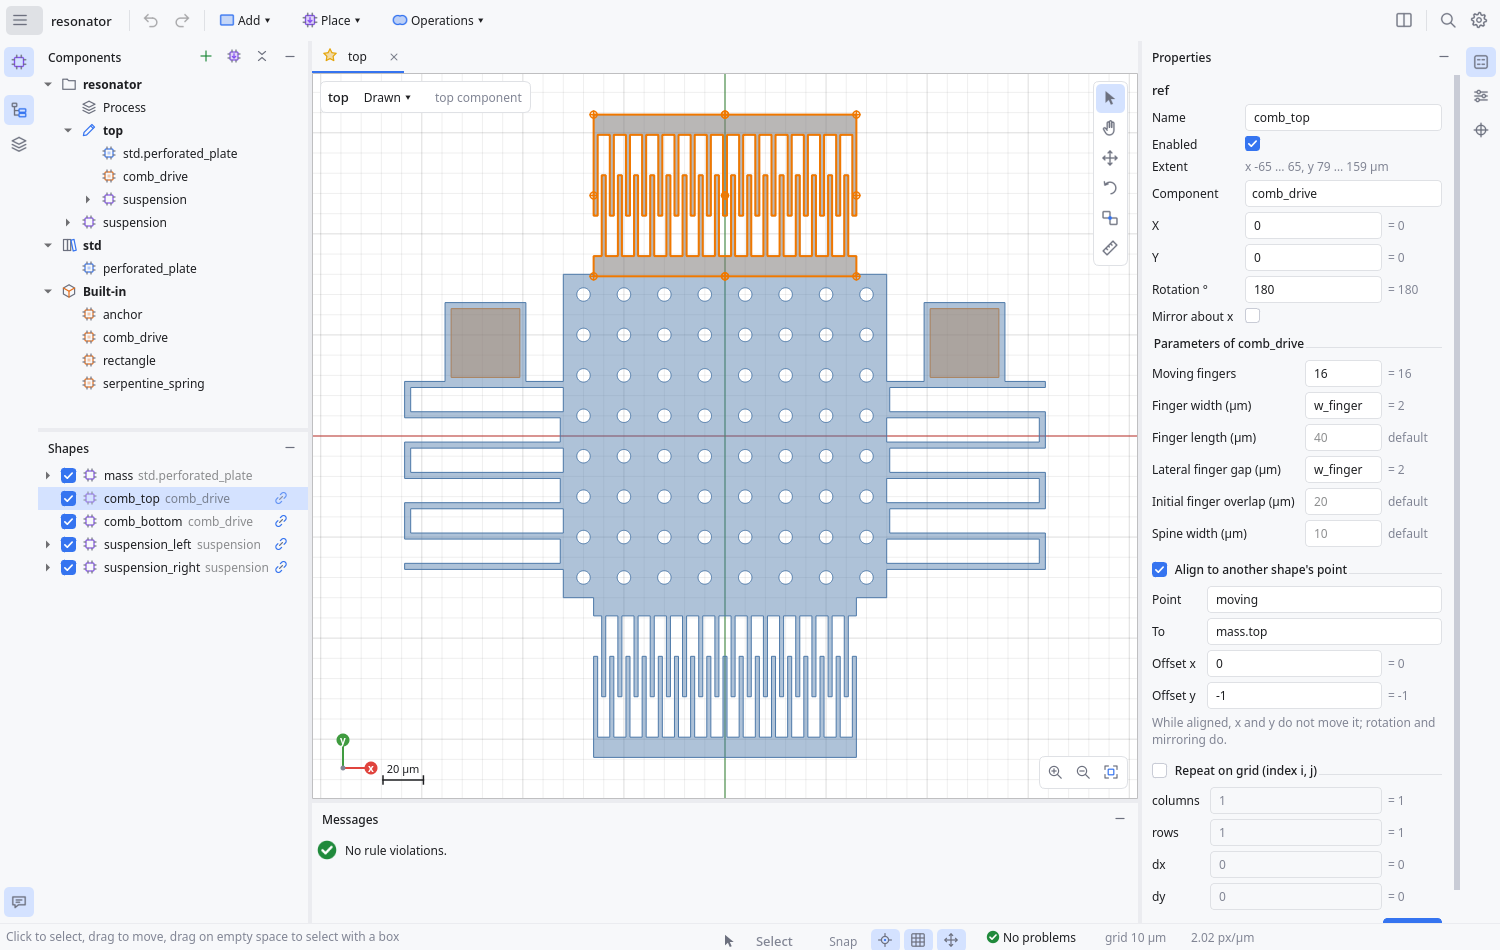
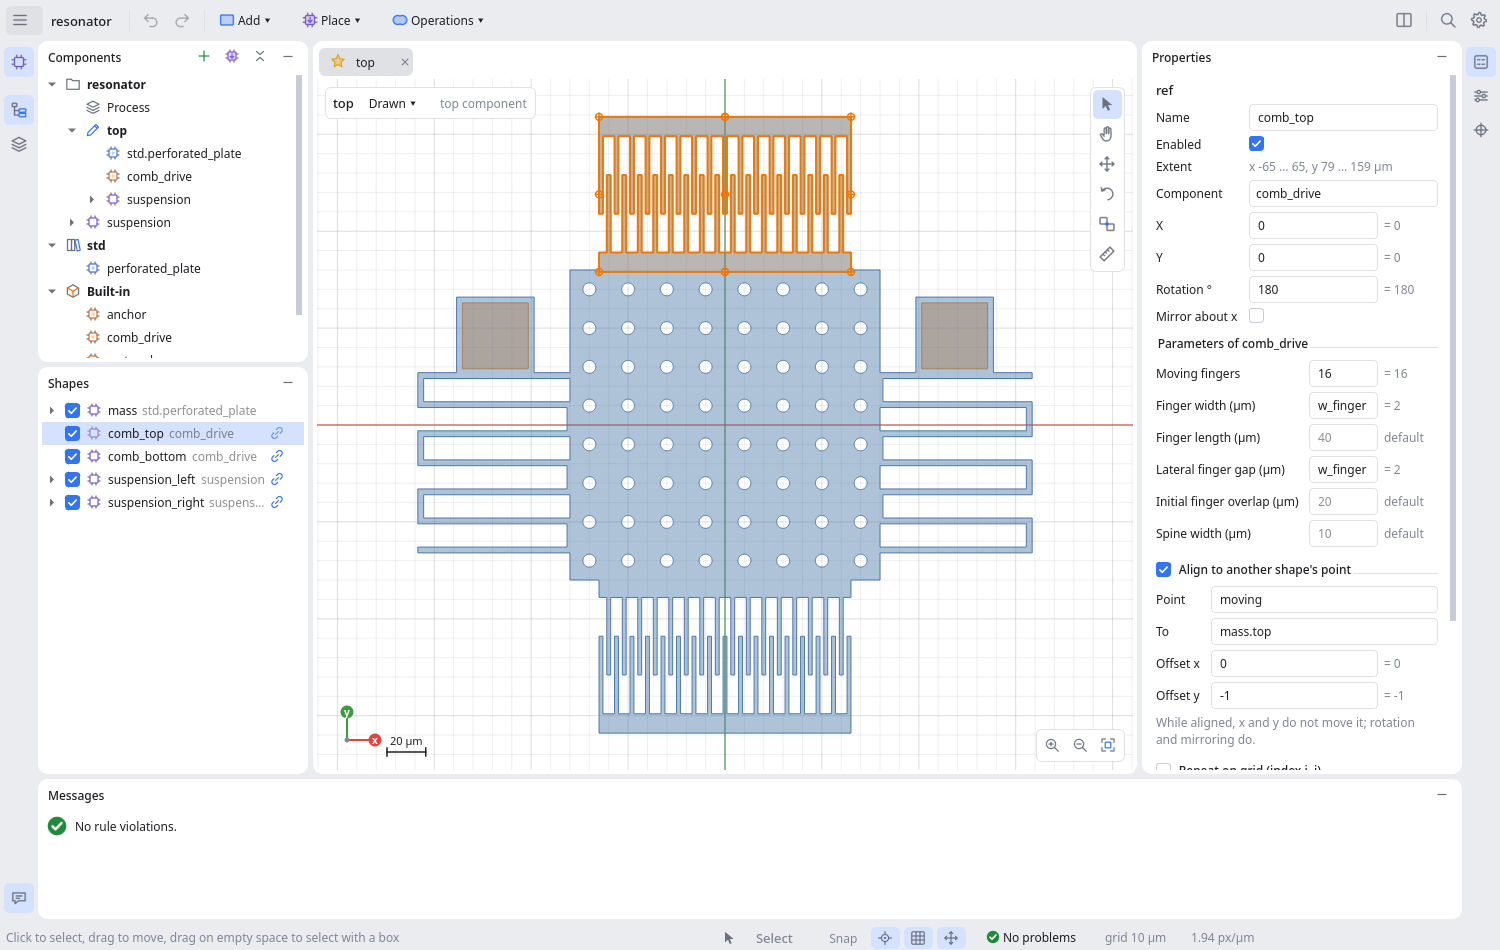
The Islands look: panels and the editor as rounded islands on a frame
After JetBrains' Islands theme, with the dark colours measured from the
user's IntelliJ screenshot: the toolbar, stripes, gaps and status bar are
one frame colour (dark #26282c, light #ebecf0) and every tool window and
the editor is a rounded island (dark #191a1c, light white), 5 px apart,
with no border lines. The bottom panel now runs the full width under the
side panels. Headers sit on the island with no separator; the selected
editor tab is a rounded pill.

The status bar's tool options were taller than the bar (30 px in 26),
so they hung 4 px low and were clipped; they are now compact 22 px
inputs, aligned with the rest. The canvas has no frame line.

Two drag tests asserted a fixed precision in µm that only held at the
old canvas size; a drag is as exact as the mouse, so they now allow one
pixel at the current zoom.

diff --git a/src/mems_sketch/gui/theme.py b/src/mems_sketch/gui/theme.py
@@ -1,4 +1,8 @@
-"""The look of the application: a light and a dark theme after JetBrains' New UI.
+"""The look of the application: a light and a dark theme after JetBrains' Islands.
+
+The window is a *frame* (toolbar, tool window stripes, the gaps between
+panels, status bar) holding *islands*: every tool window and the editor, with
+rounded corners and no border lines between them.
 
 ``apply(app, name)`` sets the Qt palette, a style sheet and the icon colours
 for ``light``, ``dark`` or ``system`` (follow the desktop). The canvas has its
@@ -21,7 +25,9 @@ UI_THEMES = {"system": "Same as the system", "light": "Light", "dark": "Dark"}
 
 TOKENS = {
     "light": {
-        "window": "#f7f8fa",  # tool windows, toolbars
+        "frame": "#ebecf0",  # toolbar, stripes, the gaps between islands, status bar
+        "island": "#ffffff",  # tool windows and the editor
+        "window": "#f7f8fa",  # dialogs
         "editor": "#ffffff",  # the editor area and inputs
         "border": "#ebecf0",
         "border_strong": "#dfe1e5",
@@ -38,6 +44,8 @@ TOKENS = {
         "scroll": "#c9ccd6",
     },
     "dark": {
+        "frame": "#26282c",  # measured from IntelliJ's dark Islands theme
+        "island": "#191a1c",
         "window": "#2b2d30",
         "editor": "#1e1f22",
         "border": "#1e1f22",
@@ -57,11 +65,17 @@ TOKENS = {
 }
 
 STYLE = """
-QMainWindow, QDialog {{ background: {window}; }}
+QMainWindow {{ background: {frame}; }}
+QDialog {{ background: {window}; }}
 QWidget {{ color: {text}; }}
-QMainWindow::separator {{ background: {border}; width: 1px; height: 1px; }}
+QMainWindow::separator {{ background: {frame}; width: 5px; height: 5px; }}
 
-QToolBar {{ background: {window}; border: none; spacing: 2px; padding: 3px 6px; }}
+QWidget#tool-windows, QWidget#tool-window-stripe-left, QWidget#tool-window-stripe-right {{
+    background: {frame};
+}}
+QWidget#island {{ background: {island}; border-radius: 10px; }}
+
+QToolBar {{ background: {frame}; border: none; spacing: 2px; padding: 3px 6px; }}
 QToolBar::separator {{ background: {border_strong}; width: 1px; height: 1px; margin: 4px 5px; }}
 QToolButton {{
     background: transparent; border: none; border-radius: 5px; padding: 4px;
@@ -88,22 +102,22 @@ QMenu::icon {{ padding-left: 6px; }}
 
 QDockWidget {{ titlebar-close-icon: none; titlebar-normal-icon: none; }}
 QDockWidget::title {{ background: {window}; padding: 0 10px; text-align: left; }}
-QWidget#dock-title {{ background: {window}; }}
+QWidget#dock-title {{ background: transparent; }}
 QLabel#dock-title-label {{ font-weight: 600; }}
 QDockWidget > QWidget {{ background: {window}; }}
 
 QTabWidget::pane {{ border: none; }}
-QTabBar {{ background: {window}; qproperty-drawBase: 0; }}
+QTabBar {{ background: {island}; qproperty-drawBase: 0; }}
 QTabBar::tab {{
-    background: transparent; color: {text}; height: 22px; padding: 4px 10px; margin: 0;
-    border: none; border-bottom: 2px solid transparent;
+    background: transparent; color: {text}; height: 22px; padding: 2px 10px; margin: 3px 2px;
+    border: 1px solid transparent; border-radius: 6px;
 }}
-QTabBar::tab:selected {{ border-bottom: 2px solid {accent}; }}
+QTabBar::tab:selected {{ background: {selected_inactive}; border: 1px solid {border_strong}; }}
 QTabBar::tab:hover:!selected {{ background: {hover}; }}
 QToolButton#tab-close {{ padding: 1px; border-radius: 3px; }}
 
 QTreeView, QTableView, QListView, QTableWidget, QTreeWidget, QListWidget {{
-    background: {window}; alternate-background-color: {window}; border: none;
+    background: {island}; alternate-background-color: {island}; border: none;
     selection-background-color: {selected}; selection-color: {text};
     gridline-color: {border};
 }}
@@ -113,10 +127,10 @@ QTreeView::item:selected, QListView::item:selected, QTableView::item:selected {{
     background: {selected}; color: {text};
 }}
 QHeaderView::section {{
-    background: {window}; color: {muted}; border: none; padding: 4px 6px;
+    background: {island}; color: {muted}; border: none; padding: 4px 6px;
 }}
 QTableView::item {{ padding: 0 4px; }}
-QTableCornerButton::section {{ background: {window}; border: none; }}
+QTableCornerButton::section {{ background: {island}; border: none; }}
 
 QLineEdit, QPlainTextEdit, QTextEdit, QSpinBox, QDoubleSpinBox, QComboBox {{
     background: {editor}; border: 1px solid {border_strong}; border-radius: 4px;
@@ -143,8 +157,8 @@ QPushButton:default {{ background: {accent}; color: {accent_text}; border-color:
 QPushButton:disabled {{ color: {muted}; }}
 
 QCheckBox, QRadioButton {{ spacing: 6px; }}
-QScrollArea {{ background: {window}; border: none; }}
-QWidget#properties-body {{ background: {window}; }}
+QScrollArea {{ background: {island}; border: none; }}
+QWidget#properties-body {{ background: {island}; }}
 QGroupBox#section {{
     border: none; border-top: 1px solid {border_strong}; margin-top: 18px; padding-top: 8px;
     font-weight: 600;
@@ -166,11 +180,12 @@ QCheckBox::indicator:checked, QTreeView::indicator:checked, QTableView::indicato
 }}
 QCheckBox::indicator:disabled {{ background: {window}; }}
 
-QStatusBar {{ background: {window}; border-top: 1px solid {border}; color: {muted};
-    min-height: 26px; }}
+QStatusBar {{ background: {frame}; border: none; color: {muted}; min-height: 26px; }}
 QStatusBar::item {{ border: none; }}
 QStatusBar QLabel {{ color: {muted}; padding: 0 6px; }}
 QStatusBar QToolButton {{ padding: 2px 5px; }}
+QStatusBar QComboBox, QStatusBar QDoubleSpinBox {{ padding: 0 6px; }}
+QGraphicsView {{ border: none; }}
 
 QScrollBar:vertical {{ background: transparent; width: 10px; margin: 0; }}
 QScrollBar:horizontal {{ background: transparent; height: 10px; margin: 0; }}
@@ -179,7 +194,7 @@ QScrollBar::handle {{ background: {scroll}; border-radius: 4px; min-height: 24px
 QScrollBar::add-line, QScrollBar::sub-line {{ width: 0; height: 0; }}
 QScrollBar::add-page, QScrollBar::sub-page {{ background: transparent; }}
 
-QSplitter::handle {{ background: {border}; }}
+QSplitter::handle {{ background: {frame}; }}
 QToolTip {{
     background: {tooltip}; color: {text}; border: 1px solid {border_strong}; padding: 4px 6px;
     border-radius: 4px;

diff --git a/src/mems_sketch/gui/toolwindows.py b/src/mems_sketch/gui/toolwindows.py
@@ -1,8 +1,10 @@
 """Tool windows opened and closed from stripes on the window edges, as in IntelliJ.
 
 Every window has an anchor. ``left-top`` and ``left-bottom`` share the left
-side, split in two when both have a window open; ``bottom`` sits under the
-editor and ``right`` beside it. An anchor shows one window at a time:
+side, split in two when both have a window open; ``bottom`` runs the full
+width under them, the editor and ``right``. Each anchor's panel, and the
+editor, is an *island*: a rounded panel on the window's frame, 5 px from the
+next one (see :mod:`mems_sketch.gui.theme`). An anchor shows one window at a time:
 opening another one there replaces it. Each window has a button on a stripe:
 the left stripe holds the two left anchors at the top (with a gap between
 them) and ``bottom`` at the bottom; the right stripe holds ``right``.
@@ -30,9 +32,25 @@ from mems_sketch.gui.theme import HEADER_HEIGHT
 ANCHORS = ("left-top", "left-bottom", "bottom", "right")
 STRIPE_WIDTH = 38
 GROUP_GAP = 14  # px between the two left groups on the stripe
+GAP = 5  # px of frame between islands
+ISLAND_INSET = 4  # px between an island's edge and its content: the corners stay round
 # Splitter sizes until the user changes them: [left, editor, right], [left top,
-# left bottom] and [editor, bottom].
-DEFAULT_SIZES = {"main": [270, 900, 320], "left": [300, 380], "center": [700, 120]}
+# left bottom] and [the row above, bottom].
+DEFAULT_SIZES = {"main": [270, 900, 320], "left": [300, 380], "center": [700, 140]}
+
+
+def island(content: QWidget | None = None) -> QFrame:
+    """A rounded panel on the frame, holding ``content`` (if given) inset from its edges."""
+    frame = QFrame()
+    frame.setObjectName("island")
+    frame.setAttribute(Qt.WidgetAttribute.WA_StyledBackground, True)
+    layout = QVBoxLayout(frame)
+    layout.setContentsMargins(ISLAND_INSET, 0, ISLAND_INSET, ISLAND_INSET)
+    layout.setSpacing(0)
+    if content is not None:
+        layout.setContentsMargins(ISLAND_INSET, ISLAND_INSET, ISLAND_INSET, ISLAND_INSET)
+        layout.addWidget(content)
+    return frame
 
 
 @dataclass
@@ -46,21 +64,22 @@ class _Window:
 
 
 class _Host(QFrame):
-    """The panel of one anchor: a header with the open window's title and its own
+    """The island of one anchor: a header with the open window's title and its own
     buttons (a panel's ``header_buttons``), and the window."""
 
     def __init__(self, hide) -> None:
         super().__init__()
-        self.setObjectName("tool-window")
+        self.setObjectName("island")
+        self.setAttribute(Qt.WidgetAttribute.WA_StyledBackground, True)
         layout = QVBoxLayout(self)
-        layout.setContentsMargins(0, 0, 0, 0)
+        layout.setContentsMargins(ISLAND_INSET, 0, ISLAND_INSET, ISLAND_INSET)
         layout.setSpacing(0)
         header = QWidget()
         header.setObjectName("dock-title")
         header.setAttribute(Qt.WidgetAttribute.WA_StyledBackground, True)
         header.setFixedHeight(HEADER_HEIGHT)  # as tall as the editor tabs: edges line up
         row = self.row = QHBoxLayout(header)
-        row.setContentsMargins(10, 0, 4, 0)
+        row.setContentsMargins(10 - ISLAND_INSET, 0, 2, 0)
         row.setSpacing(1)
         self.title = QLabel()
         self.title.setObjectName("dock-title-label")
@@ -87,21 +106,25 @@ class ToolWindows(QWidget):
         self._windows: dict[str, _Window] = {}
         self._hosts = {anchor: _Host(lambda a=anchor: self._hide(a)) for anchor in ANCHORS}
 
+        self.setObjectName("tool-windows")
+        self.setAttribute(Qt.WidgetAttribute.WA_StyledBackground, True)
         self.left_side = QSplitter(Qt.Orientation.Vertical)
         self.left_side.addWidget(self._hosts["left-top"])
         self.left_side.addWidget(self._hosts["left-bottom"])
-        self.center = QSplitter(Qt.Orientation.Vertical)
-        self.center.addWidget(editor)
-        self.center.addWidget(self._hosts["bottom"])
-        self.center.setStretchFactor(0, 1)
-        self.main = QSplitter(Qt.Orientation.Horizontal)
+        self.editor_island = island(editor)
+        self.main = QSplitter(Qt.Orientation.Horizontal)  # the row: left, editor, right
         self.main.addWidget(self.left_side)
-        self.main.addWidget(self.center)
+        self.main.addWidget(self.editor_island)
         self.main.addWidget(self._hosts["right"])
         self.main.setStretchFactor(1, 1)
+        self.center = QSplitter(Qt.Orientation.Vertical)  # the row over the bottom panel
+        self.center.addWidget(self.main)
+        self.center.addWidget(self._hosts["bottom"])
+        self.center.setStretchFactor(0, 1)
         self._splitters = {"main": self.main, "left": self.left_side, "center": self.center}
         for name, splitter in self._splitters.items():
             splitter.setChildrenCollapsible(False)
+            splitter.setHandleWidth(GAP)
             splitter.setSizes(DEFAULT_SIZES[name])
             splitter.splitterMoved.connect(self.changed)
 
@@ -117,10 +140,10 @@ class ToolWindows(QWidget):
         right.layout().addStretch()
 
         layout = QHBoxLayout(self)
-        layout.setContentsMargins(0, 0, 0, 0)
+        layout.setContentsMargins(0, 0, 0, GAP)
         layout.setSpacing(0)
         layout.addWidget(left)
-        layout.addWidget(self.main, 1)
+        layout.addWidget(self.center, 1)
         layout.addWidget(right)
         self._update()
 

diff --git a/tests/test_gui_layout.py b/tests/test_gui_layout.py
@@ -7,9 +7,9 @@ import pytest
 
 pytest.importorskip("PySide6")
 
-from PySide6.QtCore import QEvent, QPointF, QRectF, Qt
+from PySide6.QtCore import QEvent, QPoint, QPointF, QRectF, Qt
 from PySide6.QtGui import QContextMenuEvent, QMouseEvent
-from PySide6.QtWidgets import QApplication, QMessageBox, QToolBar, QToolButton
+from PySide6.QtWidgets import QApplication, QMessageBox, QToolBar, QToolButton, QWidget
 
 from mems_sketch.core.shapes import RectShape
 from mems_sketch.gui.app import MainWindow
@@ -332,3 +332,35 @@ def test_the_process_item_has_its_own_right_click_entry(window):
     assert [a.text() for a in menu.actions()] == ["Open the process"]
     menu.actions()[0].trigger()
     assert window.area.process_view is not None
+
+
+# -- the Islands look ---------------------------------------------------------------
+
+
+def global_x_range(widget):
+    left = widget.mapToGlobal(widget.rect().topLeft()).x()
+    return left, left + widget.width()
+
+
+def test_the_bottom_panel_spans_the_full_width(window):
+    windows = window.tool_windows
+    for name in ("components", "properties", "messages"):
+        windows.open(name)
+    messages = global_x_range(window.messages)
+    assert messages[0] <= global_x_range(window.components)[0]
+    assert messages[1] >= global_x_range(window.properties)[1]
+
+
+@pytest.mark.parametrize("name", ["light", "dark"])
+def test_frame_and_islands_have_their_own_colours(window, name, qtbot):
+    from mems_sketch.gui.theme import TOKENS
+
+    window.settings.set("appearance/ui_theme", name)
+    qtbot.wait(20)
+    image = window.grab().toImage()
+    stripe = window.tool_windows.findChild(QWidget, "tool-window-stripe-left")
+    in_stripe = stripe.mapTo(window, QPoint(stripe.width() // 2, stripe.height() // 2))
+    viewport = window.components.tree.viewport()
+    in_island = viewport.mapTo(window, QPoint(viewport.width() // 2, viewport.height() - 6))
+    assert image.pixelColor(in_stripe).name() == TOKENS[name]["frame"]
+    assert image.pixelColor(in_island).name() == TOKENS[name]["island"]

diff --git a/tests/test_gui_drag.py b/tests/test_gui_drag.py
@@ -58,7 +58,8 @@ def test_dragging_moves_the_shape_snapped_to_the_grid(window):
     step = window.canvas.grid_step()
     drag(window, (50, 10), (50 + 3.3 * step, 10 + 1.2 * step), Qt.KeyboardModifier.ControlModifier)
     base = window.document.node(((0, 0),))
-    assert base.x0 == pytest.approx(3.3 * step, abs=step / 20)  # Ctrl: no snapping
+    pixel = 1 / window.canvas.pixels_per_um()  # a drag is as exact as the mouse: a pixel
+    assert base.x0 == pytest.approx(3.3 * step, abs=pixel)  # Ctrl: no snapping
     window.document.undo()
     drag(window, (50, 10), (50 + 3.3 * step, 10 + 1.2 * step))
     base = window.document.node(((0, 0),))
@@ -92,7 +93,8 @@ def test_dragging_a_shape_brings_what_is_aligned_to_it(window):
     window.document.nodes.set_align(((0, 1),), Align(point="bottom", to="base.top"))
     drag(window, (20, 10), (20, -40), Qt.KeyboardModifier.ControlModifier)
     post = window.document.results.highlight([((0, 1),)]).layers["device"].bbox()
-    assert post.bottom == pytest.approx(-30000, abs=200)
+    pixel_nm = 1000 / window.canvas.pixels_per_um()  # a drag is as exact as the mouse
+    assert post.bottom == pytest.approx(-30000, abs=pixel_nm)
 
 
 def test_drag_keeps_a_multiple_selection_and_esc_cancels(window):

diff --git a/src/mems_sketch/gui/statusbar.py b/src/mems_sketch/gui/statusbar.py
@@ -13,6 +13,8 @@ from PySide6.QtWidgets import QComboBox, QDoubleSpinBox, QHBoxLayout, QLabel, QT
 
 from mems_sketch.gui import icons
 
+STATUS_HEIGHT = 22  # px: the status bar's items and the tool options in it
+
 
 class ToolStatus(QWidget):
     """Tool name, tool options and snapping toggles, for the status bar."""
@@ -51,9 +53,11 @@ class ToolStatus(QWidget):
         snapping.setObjectName("muted")
         row.addWidget(snapping)
         self._toggles = row
-        # As tall as the tallest option, shown or not: the status bar (and so the
-        # canvas above it) keeps its height when the tool changes.
-        self.setFixedHeight(max(w.sizeHint().height() for w in (self.layer_box, self.width_box)))
+        # Compact inputs, as tall as the status bar's other items; one fixed height
+        # keeps the status bar (and so the canvas above it) still when the tool changes.
+        for box in (self.layer_box, self.width_box, self.angle_box):
+            box.setFixedHeight(STATUS_HEIGHT)
+        self.setFixedHeight(STATUS_HEIGHT)
 
     def add_toggle(self, action: QAction) -> None:
         """A small button for a checkable setting (snapping, gizmos)."""

diff --git a/README.md b/README.md
@@ -175,9 +175,10 @@ Every menu is under **☰** at the left of the toolbar; the menu paths below
   Layers, and Messages (the bottom panel) at the bottom; on the right stripe
   Properties, Parameters and Points. Each place shows one window at a time;
   the left side splits when Components and Shapes (or Layers) are both open.
-  The side panels run the full height, with Messages under the editor; a
-  panel's header lines up with the editor tabs and carries the panel's own
-  buttons. Which windows are open and their sizes are remembered. **View →
+  Every panel and the editor is an *island*, a rounded panel on the window's
+  frame (as in JetBrains' Islands theme); Messages runs the full width at the
+  bottom. A panel's header lines up with the editor tabs and carries the
+  panel's own buttons. Which windows are open and their sizes are remembered. **View →
   Panels** lists them too.
 - **Status bar**: the current hint, the active tool and its options (the
   drawing layer and path width while drawing, the angle step for Rotate), the
